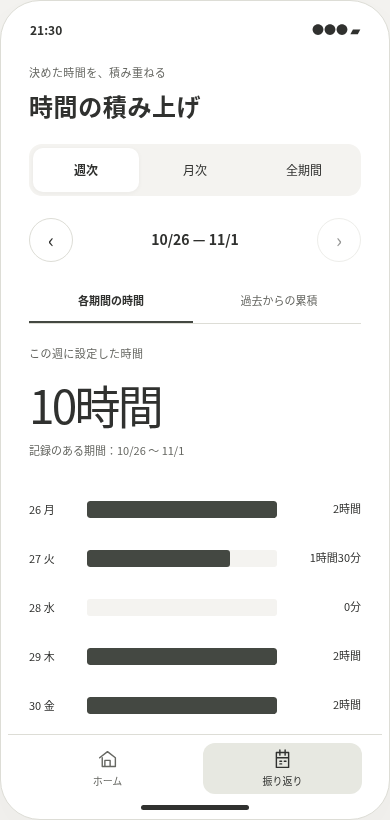
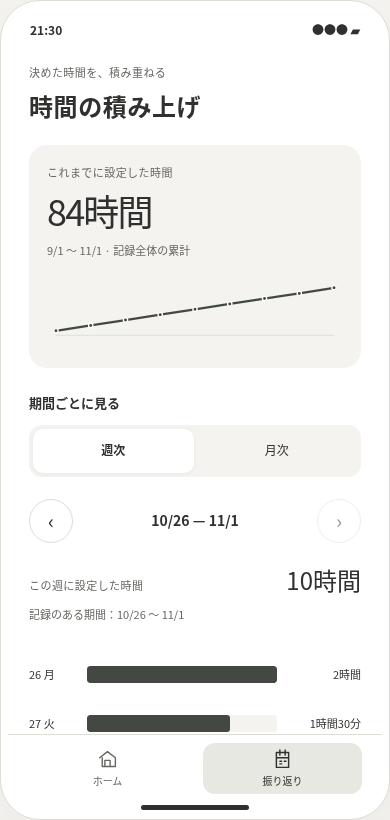
demo: simplify time history to a fixed total and week month detail

diff --git a/public/history.css b/public/history.css
@@ -6,4 +6,6 @@
 @media(max-width:720px){.site-header{padding:13px 20px}.study-label{font-size:8px;letter-spacing:.07em}.workbench{display:flex;flex-direction:column;padding:23px 16px 40px;gap:25px;max-width:460px}.study-controls{padding:0;width:100%}.study-controls h1{font-size:28px;line-height:1.6;margin:10px 0}.study-controls h1 br{display:none}.intro{font-size:12px}.intro br{display:none}.ideas{grid-template-columns:repeat(5,minmax(0,1fr));gap:4px;margin-top:18px}.idea{padding:9px 2px;gap:2px;flex-direction:column;min-height:62px}.idea-number{font-size:10px}.idea-title{font-size:9px;white-space:nowrap}.idea-selected{display:none}.study-description{margin-top:13px;padding-top:12px}.study-description>p:first-child{font-size:13px;margin-bottom:4px}.study-description>p:nth-child(2){font-size:11px}.study-description dl{display:none}.demo-options{display:grid;grid-template-columns:1fr 1fr;gap:6px 12px;margin-top:10px}.demo-options .text-button{grid-column:1/-1;padding:0;min-height:36px}.demo-options>label{flex-direction:column;align-items:stretch;gap:3px;font-size:10px}.demo-options select{font-size:10px;padding:3px 6px;max-width:none;width:100%}.demo-note{grid-column:1/-1;font-size:10px;line-height:1.8}.preview{width:100vw;max-width:390px;align-self:center}.phone{height:800px}.preview-caption{font-size:10px}}
 @media(max-width:370px){.calendar{margin-inline:-14px}#screen{padding-inline:15px}.phone{padding-inline:3px;border-radius:30px}.page-title{font-size:22px}.ring{width:210px;height:210px}.ring-copy strong{font-size:27px}.letter{padding:21px 17px}.letter-title{font-size:26px}.metric-value{font-size:23px}.calendar-day{min-height:46px}.calendar-day .note-mark{right:0;top:1px}.workbench{padding-inline:12px}.idea-title{font-size:8px}.study-label{font-size:7px}}
 @media(prefers-reduced-motion:reduce){*,*::before,*::after{transition:none!important;animation:none!important;scroll-behavior:auto!important}}
-.time-segments{display:grid;grid-template-columns:repeat(3,minmax(0,1fr));gap:3px;background:var(--bg);padding:4px;border-radius:13px;margin-top:20px}.time-segments button{border-radius:10px;font-size:12px;min-height:44px}.time-segments button[aria-pressed=true]{background:var(--surface);box-shadow:0 1px 5px #30312f0c;font-weight:550}.time-mode{display:grid;grid-template-columns:1fr 1fr;gap:4px;border-bottom:1px solid var(--line);margin-bottom:20px}.time-mode button{font-size:11px;padding:10px 4px;min-height:44px;border-bottom:2px solid transparent;color:var(--muted)}.time-mode button[aria-pressed=true]{border-bottom-color:var(--accent);color:var(--text);font-weight:550}.time-stat-label{margin-top:5px}.time-all-label{display:flex;align-items:center;justify-content:space-between;gap:12px;margin:24px 0;font-size:14px;min-height:44px}.time-all-label span{font-size:10px;color:var(--muted)}.carry-summary{display:flex;justify-content:space-between;align-items:center;gap:12px;margin-top:20px;padding:12px 14px;border-radius:12px;background:var(--soft);font-size:11px}.carry-summary strong{font-weight:550}.cumulative-chart{margin-top:17px}.cumulative-chart svg{width:100%;height:auto;display:block;overflow:visible}.cumulative-chart .chart-grid{stroke:var(--line);stroke-width:1}.cumulative-chart text{fill:var(--muted);stroke:none;font-size:10px;font-family:inherit}.cumulative-line{stroke:var(--accent);stroke-width:2.5;fill:none}.chart-point{fill:var(--accent);stroke:var(--surface);stroke-width:1.5}.day-bar{grid-template-columns:48px minmax(0,1fr) 74px}.day-bar.period-bar{grid-template-columns:74px minmax(0,1fr) 74px}.day-bar .bar-value{font-size:11px;line-height:1.6;overflow-wrap:anywhere}.day-bar>span:first-child{overflow-wrap:anywhere}.day-bar:disabled{opacity:1;color:var(--muted)}
+.time-segments{display:grid;grid-template-columns:repeat(2,minmax(0,1fr));gap:3px;background:var(--bg);padding:4px;border-radius:13px;margin-top:20px}.time-segments button{border-radius:10px;font-size:12px;min-height:44px}.time-segments button[aria-pressed=true]{background:var(--surface);box-shadow:0 1px 5px #30312f0c;font-weight:550}.cumulative-chart{margin-top:17px}.cumulative-chart svg{width:100%;height:auto;display:block;overflow:visible}.cumulative-chart .chart-grid{stroke:var(--line);stroke-width:1}.cumulative-chart text{fill:var(--muted);stroke:none;font-size:10px;font-family:inherit}.cumulative-line{stroke:var(--accent);stroke-width:2.5;fill:none}.chart-point{fill:var(--accent);stroke:var(--surface);stroke-width:1.5}.day-bar{grid-template-columns:48px minmax(0,1fr) 74px}.day-bar.period-bar{grid-template-columns:74px minmax(0,1fr) 74px}.day-bar .bar-value{font-size:11px;line-height:1.6;overflow-wrap:anywhere}.day-bar>span:first-child{overflow-wrap:anywhere}.day-bar:disabled{opacity:1;color:var(--muted)}
+
+.total-time{background:var(--bg);border-radius:18px;padding:18px 18px 12px;margin-top:21px}.total-number{font-size:36px;font-weight:480;line-height:1.6;letter-spacing:-.05em;font-variant-numeric:tabular-nums}.total-time .cumulative-chart{margin-top:8px}.total-time .cumulative-chart svg{height:88px}.total-time .cumulative-chart figcaption{position:absolute;width:1px;height:1px;overflow:hidden;clip:rect(0,0,0,0)}.period-heading{margin-top:24px;margin-bottom:10px}.period-heading+.time-segments{margin-top:0}.period-total{display:flex;align-items:baseline;justify-content:space-between;gap:16px;margin:0 0 4px}.period-total strong{font-size:24px;font-weight:500;font-variant-numeric:tabular-nums;overflow-wrap:anywhere}

diff --git a/docs/history-studies.md b/docs/history-studies.md
@@ -11,7 +11,7 @@
 | 案 | 本人の問いと操作 | 得意なこと | 判断したい点 |
 | --- | --- | --- | --- |
 | 01 余白のカレンダー | 日付→一日の予定・操作→操作詳細 | 特定の日を手がかりに探す | 量や変化を別に示す必要がある |
-| 02 時間の積み上げ | 週次/月次/全期間×期間ごと/累積→週→一日 | 設定時間と過去からの積み重ねを眺める | 累積の起点・期間内の合計・欠損を区別する |
+| 02 時間の積み上げ | 固定の累計→週次/月次の合計と棒→一日 | 全体の積み重ねと最近のペースを順に見る | 累計と期間内の合計を混同させない |
 | 03 選択のタイムライン | アプリ/結果で絞る→理由・期間・結果 | 取消・失敗も含めた選択の経緯 | 数字や本人の言葉による成果も補いたい |
 | 04 余白のノート | 本人のメモを読む→ひと言を書く/書き直す | 本人にとって意味のある時間を残す | 任意入力の負担。書かない日を不利にしない |
 | 05 週のおたより | 週を移動→時間・解除記録・本人のひと言→詳細へ | ひと呼吸で全体を振り返る | 細かい記録まではもう一段の遷移が必要 |
@@ -31,14 +31,16 @@
 
 サンプルの予定区間は、現行履歴payloadだけから自動算出できると確認したものではない。製品化時には過去の設定/変更/時差/欠損を再構成できるデータ源と指標を別途設計する。#36の取得できない実利用時間を推定しない契約を維持する。
 
-## 積み上げの期間と累積
+## 積み上げの情報設計
 
-- 「週次・月次・全期間」と「各期間の時間・過去からの累積」を独立して切り替える。選択はホーム/他案/詳細から戻ってもメモリ内で保持する。
-- 期間内合計は、その週/月だけの設定時間。累積は9/1の記録開始から選択期間の末尾までを足し、期間移動や表示単位の変更でゼロに戻さない。選択中の期間より前の持ち越しを明示する。
-- 例: 10/26〜11/1の週は期間内10時間・持ち越し74時間・累積84時間。9月は40時間、10月は期間内43時間・累積83時間、11月は11/1までの1時間・累積84時間。全期間も84時間。
-- 週次は日別の棒、月次と全期間は月境界/記録範囲で区切った週別の棒。累積は折れ線と数値一覧で示す。月/全期間の行→該当週→一日の記録へ進める。
-- 記録終端は11/1。11月の以降の週を0や横ばいで埋めず「記録なし」とする。設定のない既知の日の0と、欠損のnullを分ける。欠損点で線をつながず、欠損を含む累積は一部の記録であることを示す。
-- 月の端の週を重複計上しない。date-onlyの区間で月跨ぎ/年跨ぎを扱い、当日/将来の実績を推定しない。サンプルの範囲・指標は製品での仕様採用ではない。
+上部は「これまで、どれだけ積み重ねたか」、下部は「最近はどんなペースか」に答える。一つの累計へ複数の切替経路を置かない。
+
+- 上部の累計は9/1〜11/1の記録全体で固定し、小さな折れ線を添える。84時間という合計も線も、週/月の選択や前後移動で変えない。タップによる別の累計画面への導線は置かない。
+- 下部の操作は「週次・月次」の2つだけ。選択した期間内の合計と棒グラフを表示する。「全期間」タブと「各期間/累積」スイッチ、持ち越しカードは削除する。
+- 例: 既定の週は10時間、10月は43時間、9月は40時間、11月は11/1までの1時間。どれを選んでも上部の累計は84時間のまま。期間の合計を累計へ足し直す操作や表示はない。
+- 月次の棒は月境界で区切った週別、週次は日別。月→週→一日の記録へ詳しく見られる。週/月の選択はホーム/他案/詳細から戻ってもメモリ内で保持する。
+- 記録のない期間を0や横ばいで埋めない。既知の設定なしの日と欠損を区別する。欠損時は上部の累計も「一部」と示し、分かる記録を合計する。実際の集中時間は推定しない。
+- 累計算出には内部で全記録を集計する関数を使うが、画面上の第三の表示モードにはしない。小さな固定データの比較PoCであり、本体の全履歴取得契約ではない。
 
 ## 状態・入力・遷移
 
@@ -64,7 +66,7 @@
 ## 検証
 
 - PASS: 週/月/全期間の合計と累積の引き継ぎ、月境界の週の切詰め、年跨ぎ、既知0と欠損の区別をunit検証。
-- PASS: 6つの表示組合せ、前後の週/月、月→週→日、選択保持、将来/欠損/空/読込失敗、6組合せすべてで390pxの200%文字拡大をChromiumで検証。
+- PASS: 累計と線が週/月/期間移動でも固定されること、切替が2つだけであること、月→週→日、選択保持、欠損/空/読込失敗、両表示で390pxの200%文字拡大をChromiumで検証。
 - PASS: 区間重複、期間境界、失敗/取消/不明の除外、5回/19分、月跨ぎと月の曜日位置をunit検証。
 - PASS: 任意入口設定がExpoトップを置換し、未指定なら維持。パストラバーサル・外部URL・欠落ページ・index自身を拒否。
 - PASS: Chromiumでホーム→5案、月/週移動、日/操作詳細、フィルター、メモ保存/破棄/入力保持/HTMLエスケープ、一時解除の独立期限・自然終了・対象別の早期終了・23:00のルール終了表示。
@@ -74,6 +76,6 @@
 
 iOS Simulator・iPhone実機・VoiceOver・Dynamic Type・ネイティブのキーボード/触覚・Screen Timeは未検証。ネイティブ/保存/システム設計は変更しない。
 
-追加画像: [週次累積](screenshots/history/time-week-cumulative.png)、[月次](screenshots/history/time-month.png)、[月次累積](screenshots/history/time-month-cumulative.png)、[全期間累積](screenshots/history/time-all-cumulative.png)、[累積320px](screenshots/history/time-all-320.png)、[累積ダーク](screenshots/history/time-dark.png)。
+追加画像: [累計と週次](screenshots/history/time-overview-week.png)、[累計と月次](screenshots/history/time-overview-month.png)、[320px](screenshots/history/time-overview-320.png)、[ダーク](screenshots/history/time-overview-dark.png)。
 
 画像: [比較画面全体](screenshots/history/workbench.png)、[ホーム](screenshots/history/home.png)、[01 カレンダー](screenshots/history/calendar.png)、[02 積み上げ](screenshots/history/time.png)、[03 タイムライン](screenshots/history/timeline.png)、[04 ノート](screenshots/history/journal.png)、[05 おたより](screenshots/history/letter.png)、[操作詳細](screenshots/history/record.png)、[320px](screenshots/history/calendar-320.png)、[ダーク](screenshots/history/dark-journal.png)、[文字拡大](screenshots/history/large-text.png)。すべてWebの架空データ。
